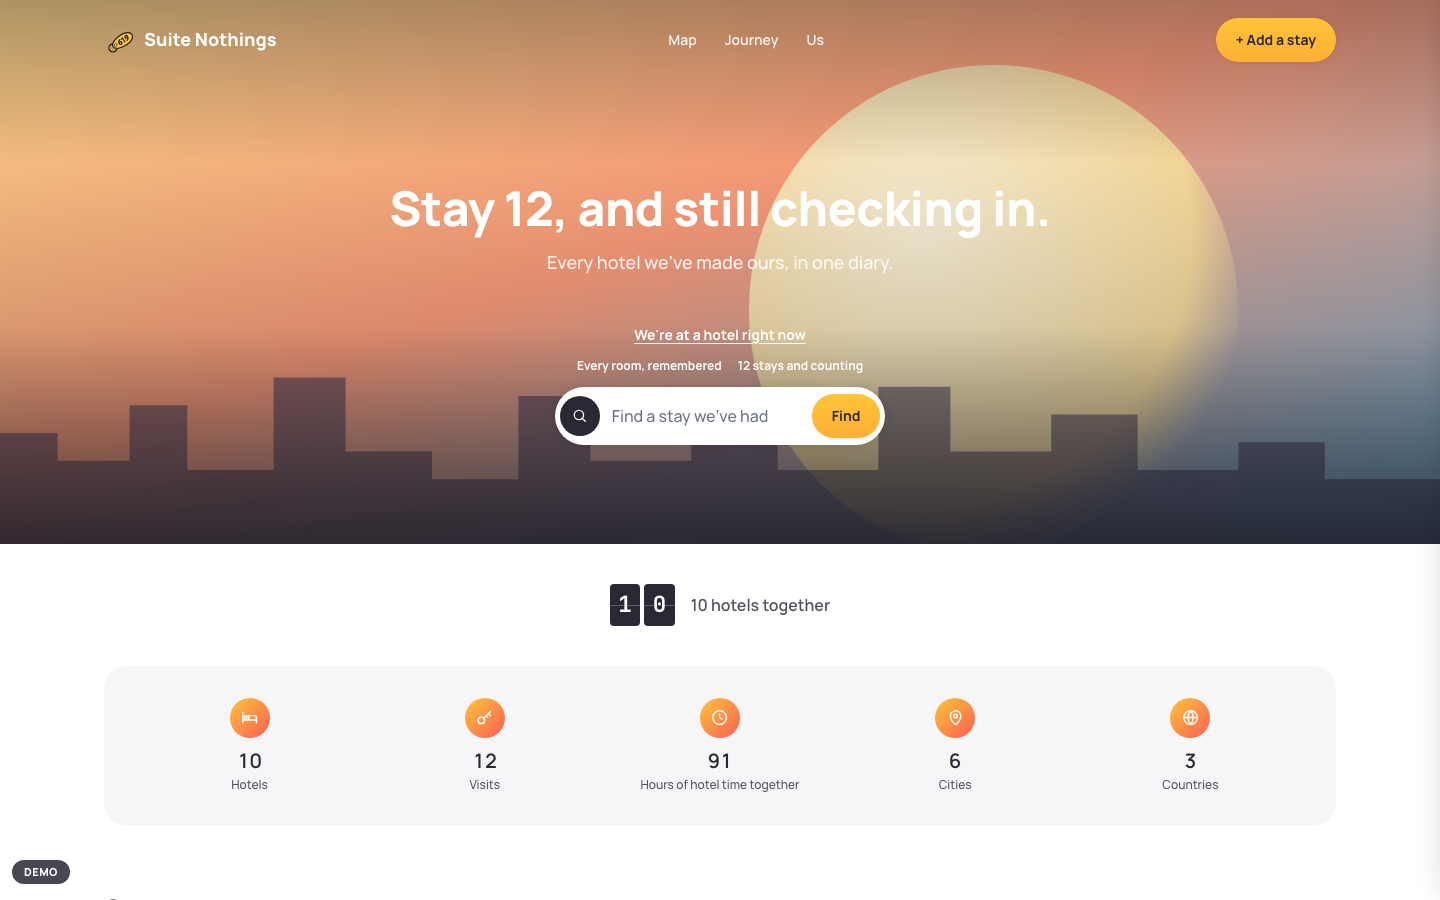
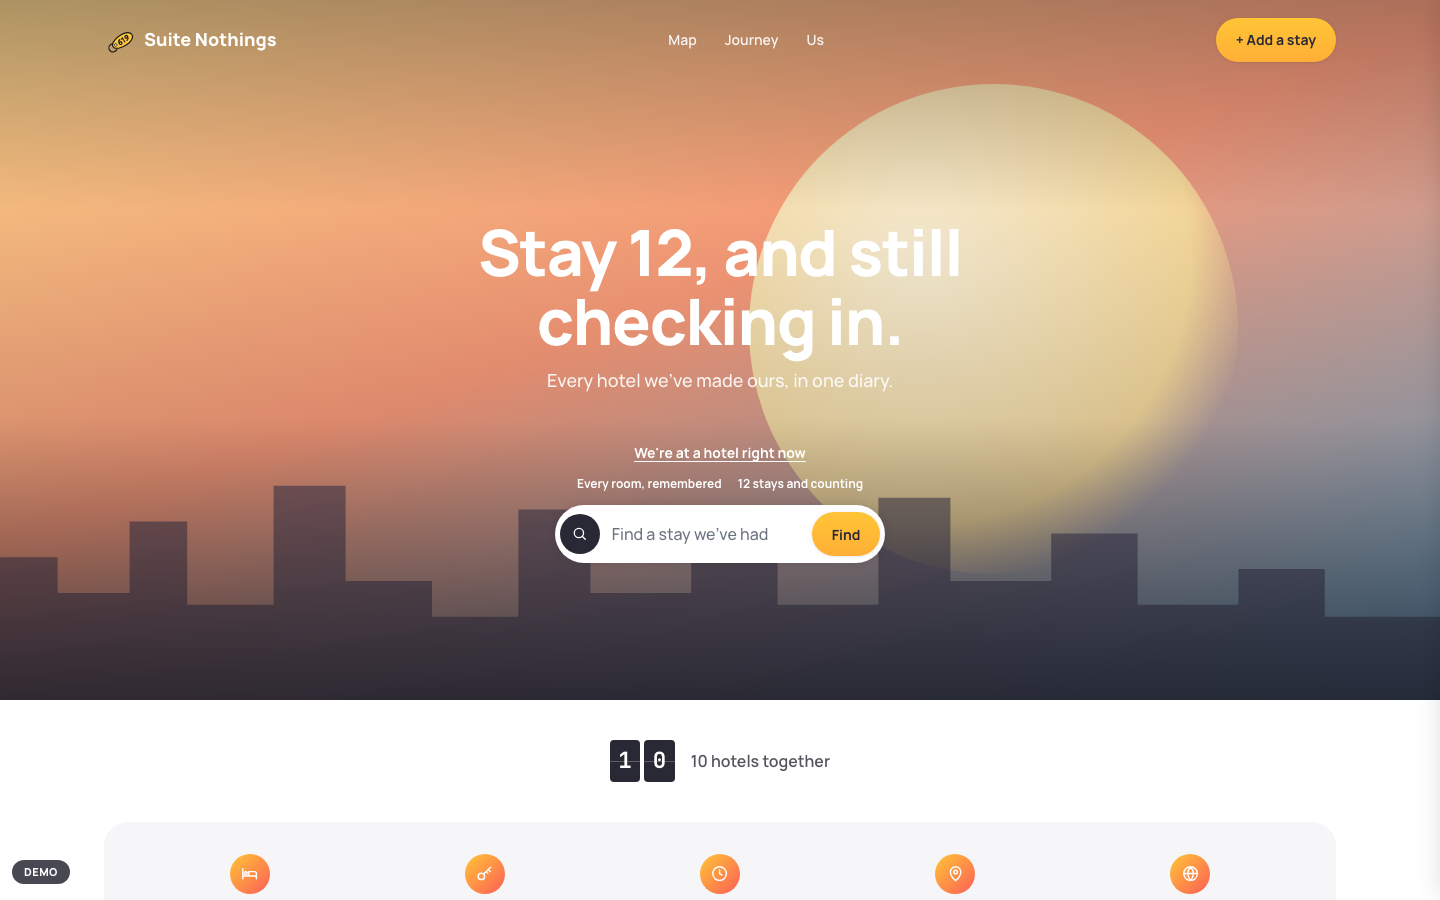
feat(prototype): cp1 loop 2 hero scale fix, composite script, critique log

diff --git a/design/prototype/proto.css b/design/prototype/proto.css
@@ -272,8 +272,12 @@ ul { margin: 0; padding: 0; list-style: none; }
   .hero-headline { font-size: var(--text-4xl); max-width: 46rem; margin-bottom: var(--space-3); }
   .hero-sub { font-size: var(--text-lg); margin-bottom: var(--space-6); }
   .hero-top { order: 3; margin-top: var(--space-6); }
-  .hero-search-wrap { order: 2; width: 100%; max-width: 42rem; }
+  .hero-search-wrap { order: 2; width: 100%; max-width: 34rem; }
+  .hero-search-wrap .search-pill { width: 100%; }
   .hero-spacer { display: none; }
+  /* cp1 loop 2: Dayuse's hero is 700 px with a 64 px display headline */
+  .hero { min-height: 43.75rem; }
+  .hero-headline { font-size: 4rem; font-weight: var(--weight-extrabold); line-height: 1.08; letter-spacing: -0.02em; }
 }
 
 /* Search bar */

diff --git a/design/plan.md b/design/plan.md
@@ -401,3 +401,21 @@ which would read as prices); the bottom tab bar on mobile (their site uses a ham
 their app uses a tab bar); and ink outlines only on story elements, never on chrome.
 
 The prototype went through two more critique loops after this; see §9.
+
+## 9. Prototype critique loops (Checkpoint 1)
+
+Composites (Dayuse left, ours right) are in `design/references/cp1/` (gitignored); our side is
+in `design/checkpoints/cp1/proto/`.
+
+- **Loop 1** (prototype agent, mid-build, from the captures): buttons, search and tabs became
+  pills; the header is transparent over the hero; city tabs are ink-filled when active; the
+  stats sit in a grey radius-xl panel with honey → ginger icons; cards got the two-badge system
+  (white feature pill, ink visit pill) plus the outlined timestamp pill; map controls are 48 px
+  white circles. Also fixed: a scrim that blocked the sheet, and pointer-events leaks on the map.
+- **Loop 2** (home 1440 against Dayuse): the hero was 520 px tall with a 48 px headline, where
+  Dayuse has 700 px and 64 px. Now 700 px, 64/800, -0.02em. Still open, and the React build
+  should fix these: (a) the hero search pill renders about 330 px wide, but Dayuse's is about
+  550 px, so the pill should fill `.hero-search-wrap` (34rem); (b) Dayuse orders the hero as
+  headline → search → trust line → link, but ours puts the link and trust line above the
+  search, so move them below; (c) the FAQ chevron should use `IconChevron`; (d) Waldorf Astoria
+  RAK should get its own city tab ("Ras Al Khaimah") or go under "Abroad/Other".
